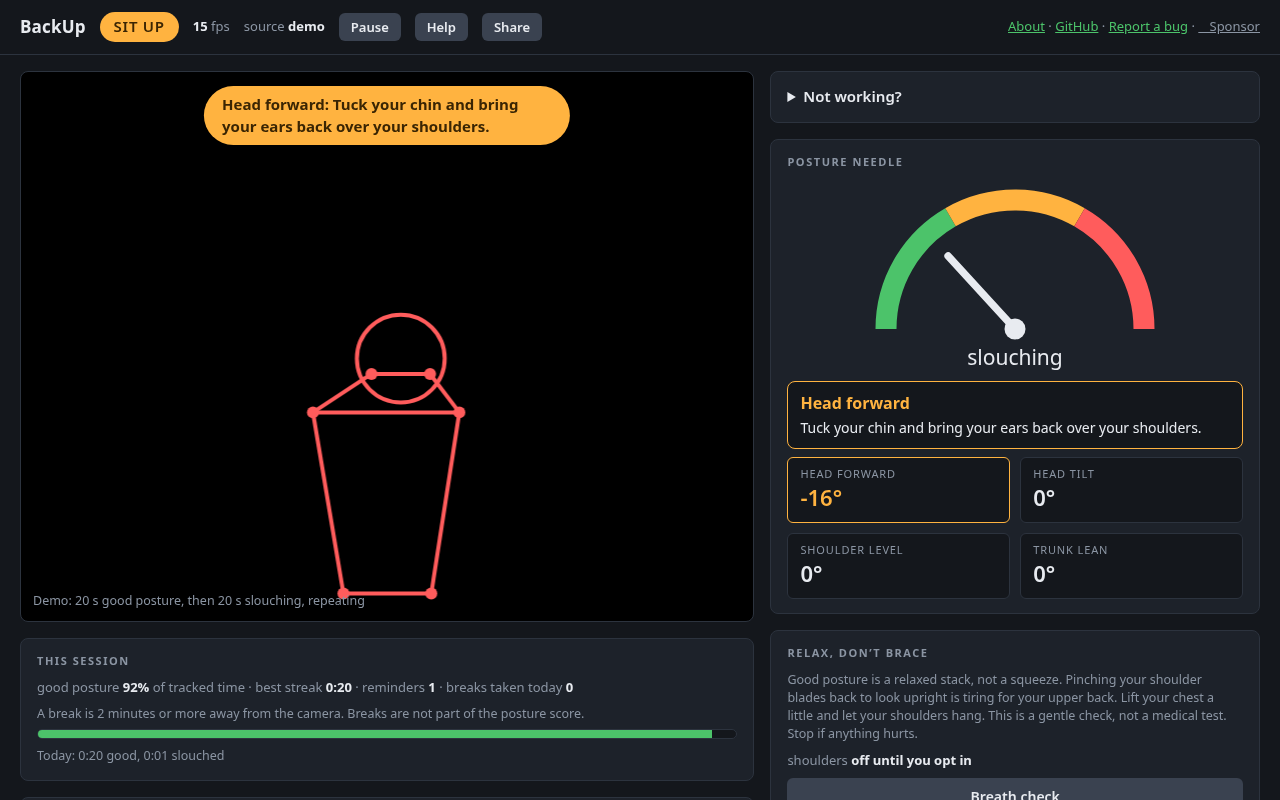
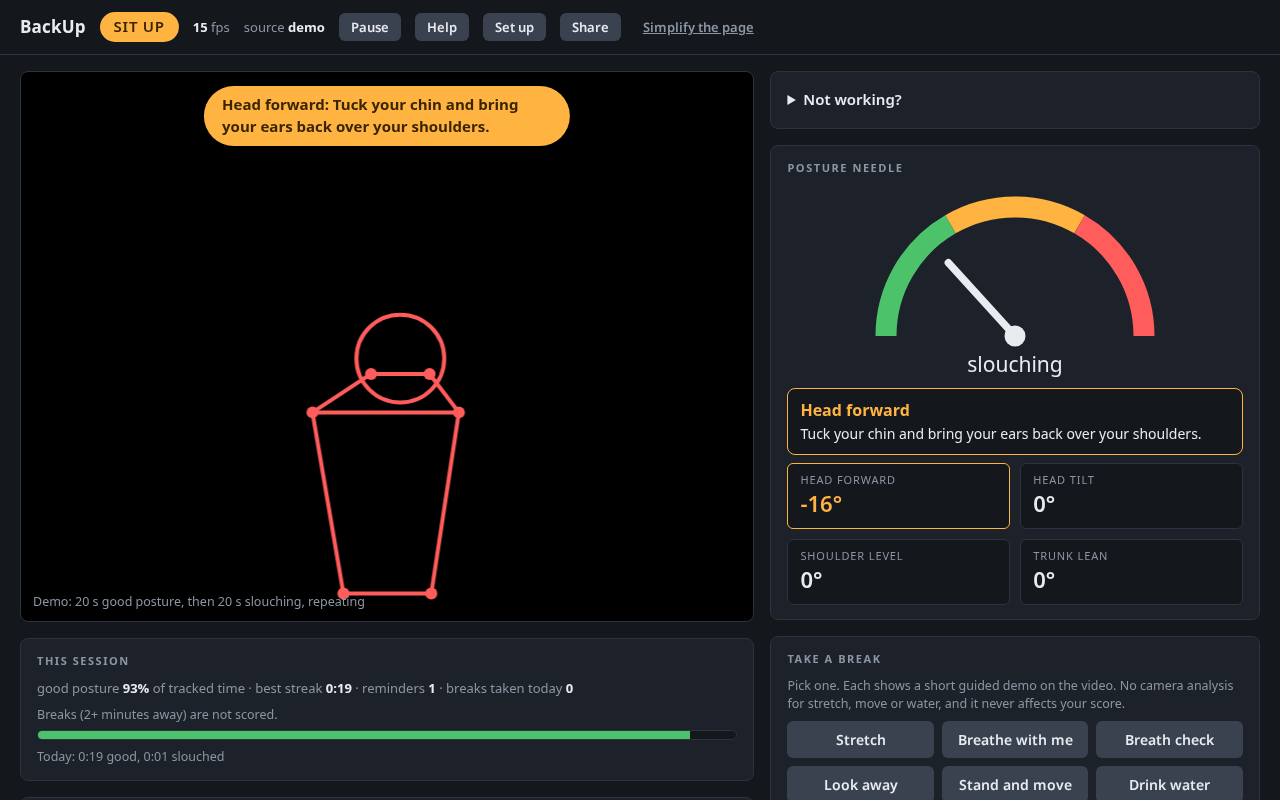
fix: refresh screenshots, landing MIT link and spacing, footer disclaimer test, onboarding focus spacing

diff --git a/docs/index.html b/docs/index.html
@@ -263,7 +263,8 @@
   details { background: var(--panel); border: 1px solid var(--line); border-radius: 10px; padding: 12px 16px; margin-top: 12px; }
   summary { cursor: pointer; font-weight: 600; }
   details[open] > summary { margin-bottom: 12px; }
-  .quick { margin: 18px 0;  padding-left: 20px; color: var(--muted); }
+  .quick { margin: 18px 0; padding-left: 20px; color: var(--muted); }
+  .cta-row { margin-bottom: 28px; }
   header.hero { padding-bottom: 16px; }
   section { margin-top: 0; }
 </style>
@@ -364,7 +365,8 @@
   <a href="privacy.html#consumer-health-data">Consumer Health Data Privacy Policy</a> &middot;
   <a href="https://github.com/arii/posture-guard">GitHub</a> &middot;
   <a href="https://github.com/sponsors/arii" style="color:inherit">&hearts; Sponsor</a> &middot;
-  <a href="https://github.com/arii/posture-guard/blob/main/THIRD_PARTY_NOTICES.md">Third-party notices</a>
+  <a href="https://github.com/arii/posture-guard/blob/main/THIRD_PARTY_NOTICES.md">Third-party notices</a> &middot;
+  <a href="https://github.com/arii/posture-guard/blob/main/LICENSE">MIT License</a>
 </footer>
 
 <script src="prefetch.js" defer></script>

diff --git a/docs/app/index.html b/docs/app/index.html
@@ -142,6 +142,9 @@
   #onboarding ul, dialog ul, #setup-panel ul { margin: 4px 0 0; padding-left: 20px; font-size: 14px; }
   #onboarding li, dialog li, #setup-panel li { margin: 3px 0; }
   #onboarding ul { font-size: 13px; }
+  #onboarding .step-count { margin-bottom: 4px; }
+  #onboarding h3 { padding: 2px 4px; margin-left: -4px; }
+  #onboarding h3:focus-visible { outline-offset: 3px; }
   .stage { min-height: 460px; width: 100%; min-width: 0; }
   .stage:has(#webgl-help.show) { aspect-ratio: auto; min-height: 660px; }
   .step-count { color: var(--muted); font-size: 12px; letter-spacing: 0.08em; text-transform: uppercase; }

diff --git a/docs/app/sw.js b/docs/app/sw.js
@@ -11,7 +11,7 @@
 // changes whenever a precached file changes, which makes the browser update it.
 // Plain script (not a module): the constants below mirror offline.js.
 
-const PRECACHE_VERSION = "87ea2c68239ed4a1";
+const PRECACHE_VERSION = "0515eff6521a22f5";
 const CACHE_PREFIX = "posture-guard-";
 // One cache per release. The worker only ever reads and writes its own cache,
 // so an update never changes what the currently active worker serves.
